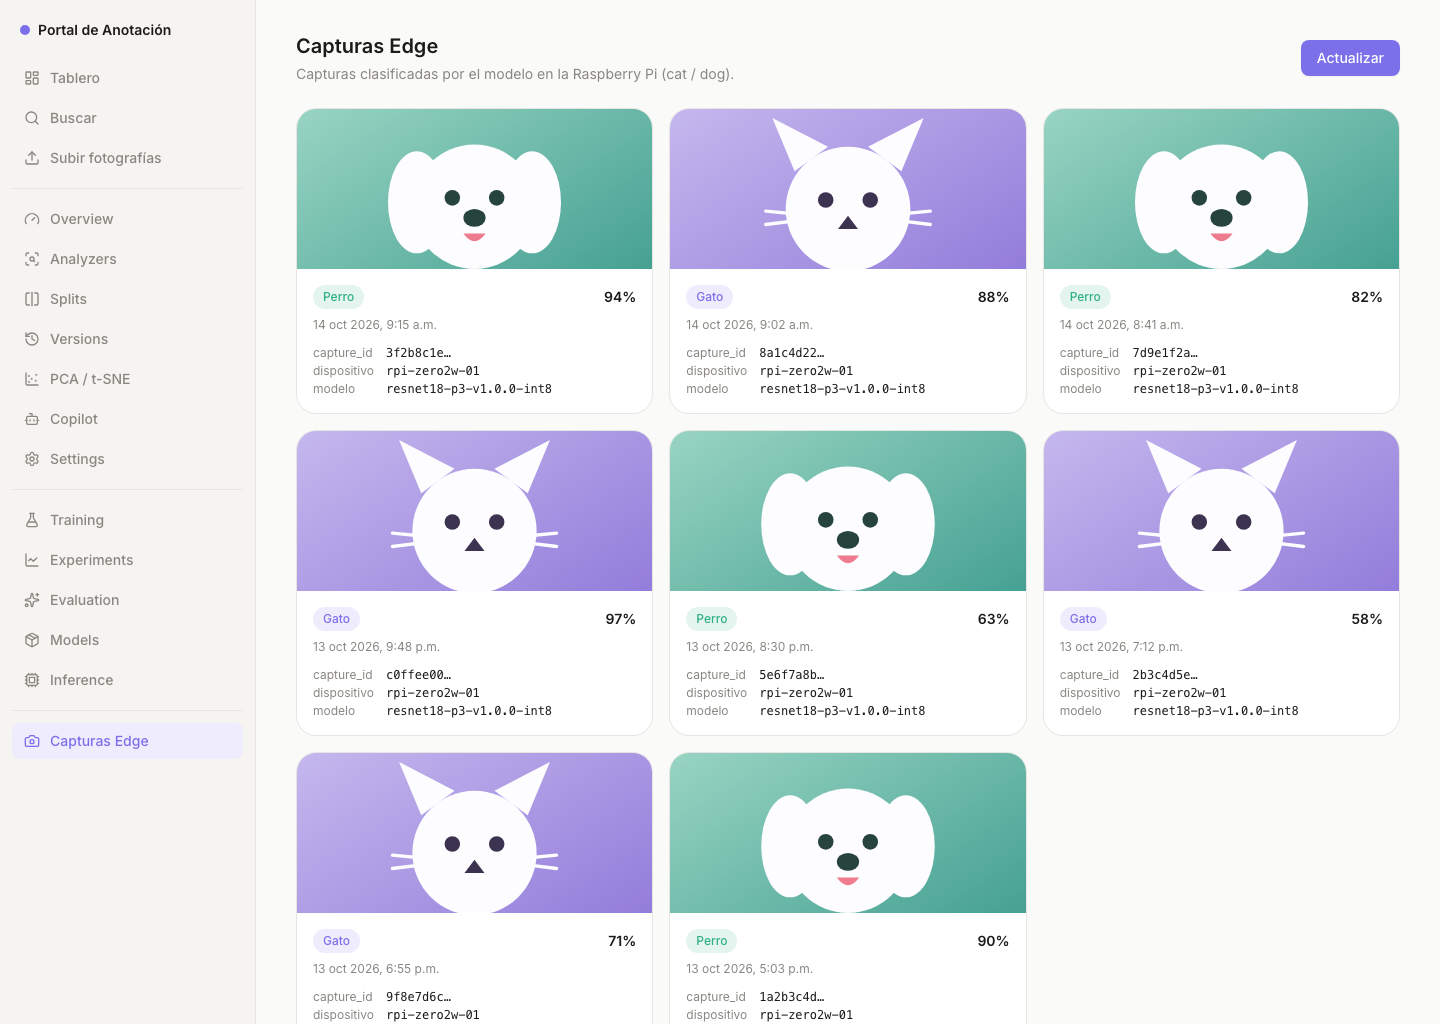
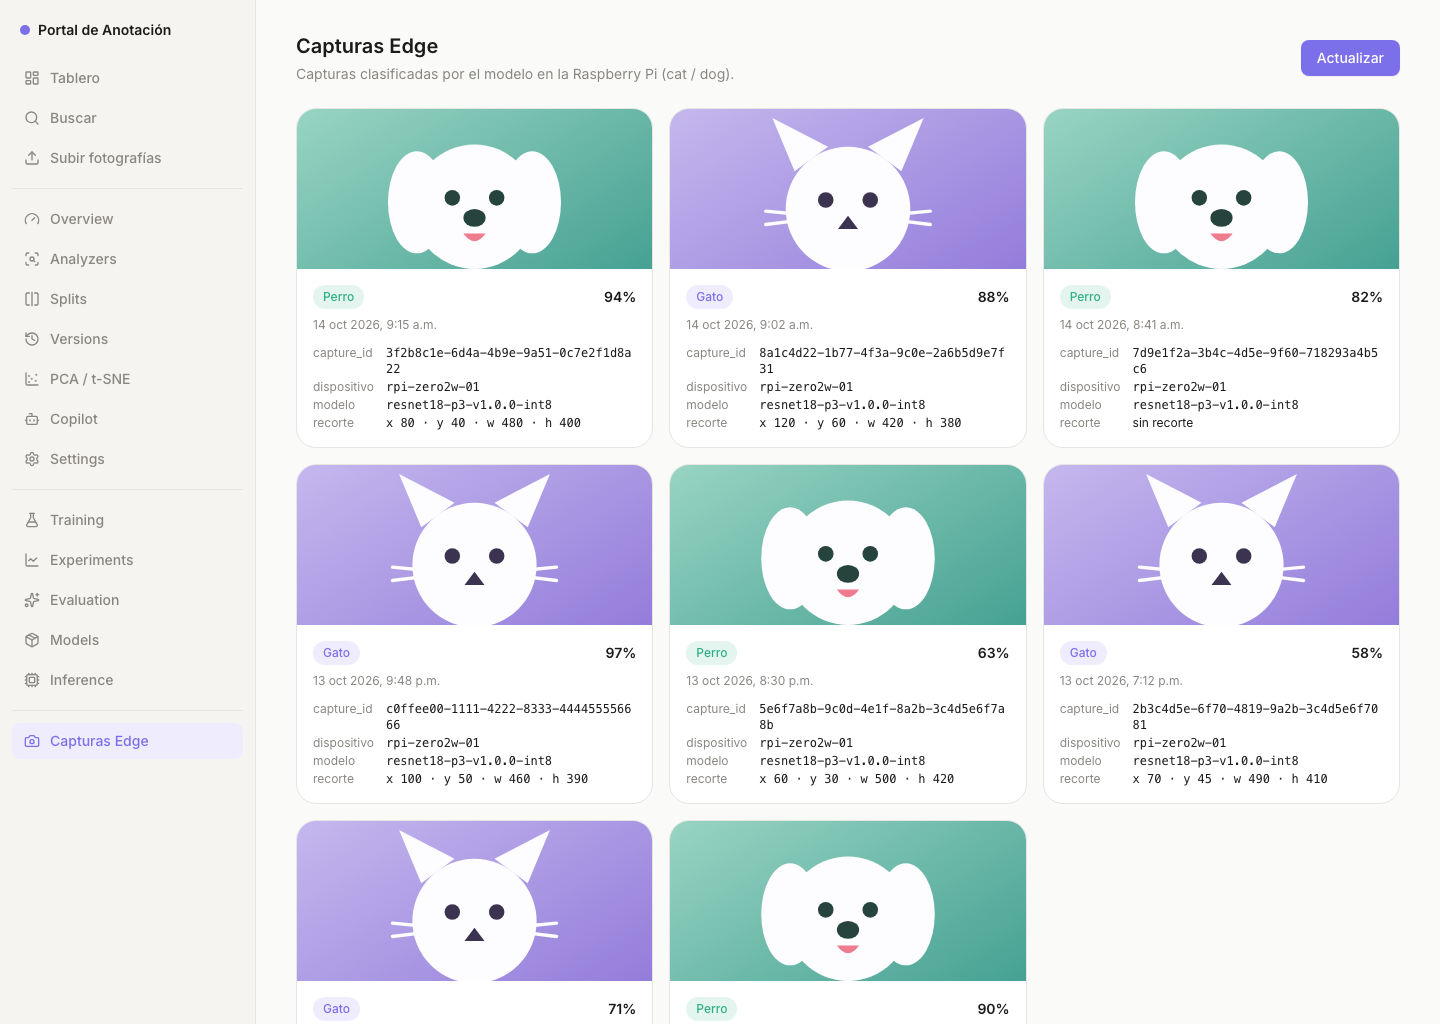
P4-14: nunca mostrar datos de ejemplo en producción
Retro #38: el Dockerfile inyecta VITE_CAPTURES_API_URL y, sin ella en producción, la sección muestra un error (no sample.json). Las tarjetas muestran el capture_id completo y las coordenadas del recorte. Añade pruebas del caso producción y nuevas capturas de evidencia.

Changed region(s): [[0.1875, 0.3438, 0.9688, 1.0]]

diff --git a/frontend/src/captures/pages/CapturesPage.test.tsx b/frontend/src/captures/pages/CapturesPage.test.tsx
@@ -1,5 +1,14 @@
-import { cleanup, fireEvent, render, screen, waitFor, within } from "@testing-library/react";
+import {
+  cleanup,
+  fireEvent,
+  render,
+  renderHook,
+  screen,
+  waitFor,
+  within,
+} from "@testing-library/react";
 import { afterEach, describe, expect, it, vi } from "vitest";
+import { resolveCapturesUrl, useCaptures } from "../dataSource";
 import { CapturesPage } from "./CapturesPage";
 
 /**
@@ -51,6 +60,7 @@ describe("CapturesPage (P4-14)", () => {
       captured_at: "2026-10-14T09:15:02-06:00",
       predicted_class: "dog",
       confidence: 0.94,
+      crop: { x: 80, y: 40, w: 480, h: 400 },
     });
     // A propósito, la más antigua primero: la página debe reordenar.
     vi.stubGlobal("fetch", vi.fn().mockResolvedValue(jsonResponse({ items: [older, newer] })));
@@ -60,14 +70,22 @@ describe("CapturesPage (P4-14)", () => {
     const cards = await screen.findAllByRole("article");
     expect(cards).toHaveLength(2);
     // La primera tarjeta es la más reciente.
-    expect(within(cards[0] as HTMLElement).getByText("bbbbbbbb…")).toBeInTheDocument();
-    expect(within(cards[1] as HTMLElement).getByText("aaaaaaaa…")).toBeInTheDocument();
+    expect(
+      within(cards[0] as HTMLElement).getByText("bbbbbbbb-2222-4222-8222-222222222222")
+    ).toBeInTheDocument();
+    expect(
+      within(cards[1] as HTMLElement).getByText("aaaaaaaa-1111-4111-8111-111111111111")
+    ).toBeInTheDocument();
 
     // Campos del contrato visibles.
     expect(screen.getByText("Perro")).toBeInTheDocument();
     expect(screen.getByText("94%")).toBeInTheDocument();
     expect(screen.getAllByText("rpi-zero2w-01").length).toBeGreaterThan(0);
     expect(screen.getAllByText("resnet18-p3-v1.0.0-int8").length).toBeGreaterThan(0);
+    // El `capture_id` va completo (#38, criterio 5.2: el evaluador lo compara
+    // entre la Pi, AWS y el portal) y el `crop` muestra sus coordenadas.
+    expect(screen.getByText("x 80 · y 40 · w 480 · h 400")).toBeInTheDocument();
+    expect(screen.getByText("sin recorte")).toBeInTheDocument();
   });
 
   it("refresca al presionar «Actualizar»", async () => {
@@ -113,5 +131,29 @@ describe("CapturesPage (P4-14)", () => {
     render(<CapturesPage />);
 
     expect(await screen.findByText("No se pudieron cargar las capturas")).toBeInTheDocument();
+  });
+});
+
+describe("producción sin VITE_CAPTURES_API_URL (P4-14)", () => {
+  it("en dev sirve el JSON de ejemplo y en producción, sin URL, no hay ejemplo", () => {
+    expect(resolveCapturesUrl(undefined, true)).toBe("/captures/sample.json");
+    expect(resolveCapturesUrl("", false)).toBeNull();
+    expect(resolveCapturesUrl(undefined, false)).toBeNull();
+    expect(resolveCapturesUrl("https://api.ejemplo.com/", false)).toBe(
+      "https://api.ejemplo.com/captures?limit=50"
+    );
+  });
+
+  it("sin URL configurada el estado es de error y no se hace ningún fetch", () => {
+    const fetchMock = vi.fn();
+    vi.stubGlobal("fetch", fetchMock);
+
+    const { result } = renderHook(() => useCaptures(null));
+
+    expect(result.current).toMatchObject({
+      status: "error",
+      message: "API de capturas no configurada.",
+    });
+    expect(fetchMock).not.toHaveBeenCalled();
   });
 });

diff --git a/frontend/src/captures/dataSource.ts b/frontend/src/captures/dataSource.ts
@@ -6,32 +6,54 @@ type CapturesState =
   | { status: "error"; message: string }
   | { status: "success"; data: CaptureEvent[] };
 
-/**
- * Base de la API de lectura. Mientras no exista la API real (issue #15) se
- * sirve un JSON de ejemplo con la forma del contrato v1. Cuando exista, basta
- * con exportar `VITE_CAPTURES_API_URL` (p. ej. el endpoint de API Gateway) y
- * este hook apunta ahí sin tocar la página.
- */
-const configuredBaseUrl = import.meta.env.VITE_CAPTURES_API_URL as string | undefined;
+const NOT_CONFIGURED_MESSAGES = "API de capturas no configurada.";
 
-export const capturesUrl =
-  configuredBaseUrl !== undefined && configuredBaseUrl.trim() !== ""
-    ? `${configuredBaseUrl.replace(/\/$/, "")}/captures?limit=50`
-    : "/captures/sample.json";
+/**
+ * Resuelve la URL de la API de lectura a partir del entorno (base de #15).
+ *
+ * En desarrollo, sin `VITE_CAPTURES_API_URL`, se sirve el JSON de ejemplo del
+ * contrato v1 para poder trabajar sin AWS. En producción **no** hay datos de
+ * ejemplo: si la URL no está configurada el estado es de error, para nunca
+ * presentar capturas simuladas como reales (retro de #38: el evaluador vería
+ * datos de ejemplo y eso vale 0 en la rúbrica).
+ *
+ * Devuelve `null` y el estado queda en error, sin hacer fetch.
+ */
+export function resolveCapturesUrl(
+  configuredBaseUrl: string | undefined,
+  isDev: boolean
+): string | null {
+  if (configuredBaseUrl !== undefined && configuredBaseUrl.trim() !== "") {
+    return `${configuredBaseUrl.replace(/\/$/, "")}/captures?limit=50`;
+  }
+  return isDev ? "/captures/sample.json" : null;
+}
+
+export const capturesUrl = resolveCapturesUrl(
+  import.meta.env.VITE_CAPTURES_API_URL,
+  import.meta.env.DEV
+);
 
 function byCapturedAtDesc(a: CaptureEvent, b: CaptureEvent): number {
   return Date.parse(b.captured_at) - Date.parse(a.captured_at);
 }
 
 /** Carga las capturas del edge y las ordena de la más reciente a la más antigua. */
-export function useCaptures() {
-  const [state, setState] = useState<CapturesState>({ status: "loading" });
+export function useCaptures(url: string | null = capturesUrl) {
+  const [state, setState] = useState<CapturesState>(
+    url === null ? { status: "error", message: NOT_CONFIGURED_MESSAGES } : { status: "loading" }
+  );
 
   const load = useCallback(() => {
+    if (url === null) {
+      setState({ status: "error", message: NOT_CONFIGURED_MESSAGES });
+      return () => {};
+    }
+
     let cancelled = false;
     setState({ status: "loading" });
 
-    fetch(capturesUrl)
+    fetch(url)
       .then(async (res) => {
         if (!res.ok) {
           throw new Error(`El servidor respondió con estado ${res.status}.`);
@@ -54,7 +76,7 @@ export function useCaptures() {
     return () => {
       cancelled = true;
     };
-  }, []);
+  }, [url]);
 
   useEffect(() => load(), [load]);
 

diff --git a/frontend/src/captures/pages/CapturesPage.tsx b/frontend/src/captures/pages/CapturesPage.tsx
@@ -43,15 +43,26 @@ function CaptureCard({ capture }: Readonly<{ capture: CaptureEvent }>) {
         <p className="text-xs text-ink-muted">{formatDate(capture.captured_at)}</p>
         <dl className="mt-1 grid grid-cols-[auto_1fr] gap-x-3 gap-y-0.5 text-xs">
           <dt className="text-ink-muted">capture_id</dt>
-          <dd className="truncate font-mono" title={capture.capture_id}>
-            {capture.capture_id.slice(0, 8)}…
-          </dd>
+          <dd className="break-all font-mono">{capture.capture_id}</dd>
           <dt className="text-ink-muted">dispositivo</dt>
           <dd className="font-mono">{capture.device_id}</dd>
           <dt className="text-ink-muted">modelo</dt>
-          <dd className="truncate font-mono" title={capture.model_version}>
+          <dd className="break-all font-mono" title={capture.model_version}>
             {capture.model_version}
           </dd>
+          {capture.crop === null ? (
+            <>
+              <dt className="text-ink-muted">recorte</dt>
+              <dd>sin recorte</dd>
+            </>
+          ) : (
+            <>
+              <dt className="text-ink-muted">recorte</dt>
+              <dd className="font-mono">
+                x {capture.crop.x} · y {capture.crop.y} · w {capture.crop.w} · h {capture.crop.h}
+              </dd>
+            </>
+          )}
         </dl>
       </div>
     </article>

diff --git a/frontend/src/vite-env.d.ts b/frontend/src/vite-env.d.ts
@@ -2,6 +2,8 @@
 
 interface ImportMetaEnv {
   readonly VITE_API_BASE_URL?: string;
+  /** P4-14/#15: base de la API de lectura de capturas edge; vacía = solo dev usa el JSON de ejemplo. */
+  readonly VITE_CAPTURES_API_URL?: string;
 }
 
 interface ImportMeta {

diff --git a/docs/p4/capturas-edge.md b/docs/p4/capturas-edge.md
@@ -23,6 +23,14 @@ La URL es configurable con `VITE_CAPTURES_API_URL`; **#15** la apunta a la API r
 
 ![Sección «Capturas Edge» con datos de ejemplo](capturas-edge.png)
 
+## Configuración de producción
+
+En **producción no hay datos de ejemplo**: sin `VITE_CAPTURES_API_URL` la sección muestra un estado de error («API de capturas no configurada») en lugar de capturas simuladas. El valor se inyecta al construir la imagen (`--build-arg VITE_CAPTURES_API_URL=…`, ver `frontend/Dockerfile`) y debe apuntar a la API de lectura (#15).
+
+El portal tiene que fijar su **origen en `var.portal_origins`** de la infraestructura de AWS (CORS de `GET /captures`), porque el endpoint lo limita.
+
+![Sección «Capturas Edge» en producción sin API configurada](capturas-edge-sin-api.png)
+
 ## Verificación
 
 - `npm run lint`, `npm run typecheck`, `npm test` (188 pruebas, 5 nuevas) y `npm run build` → OK.
